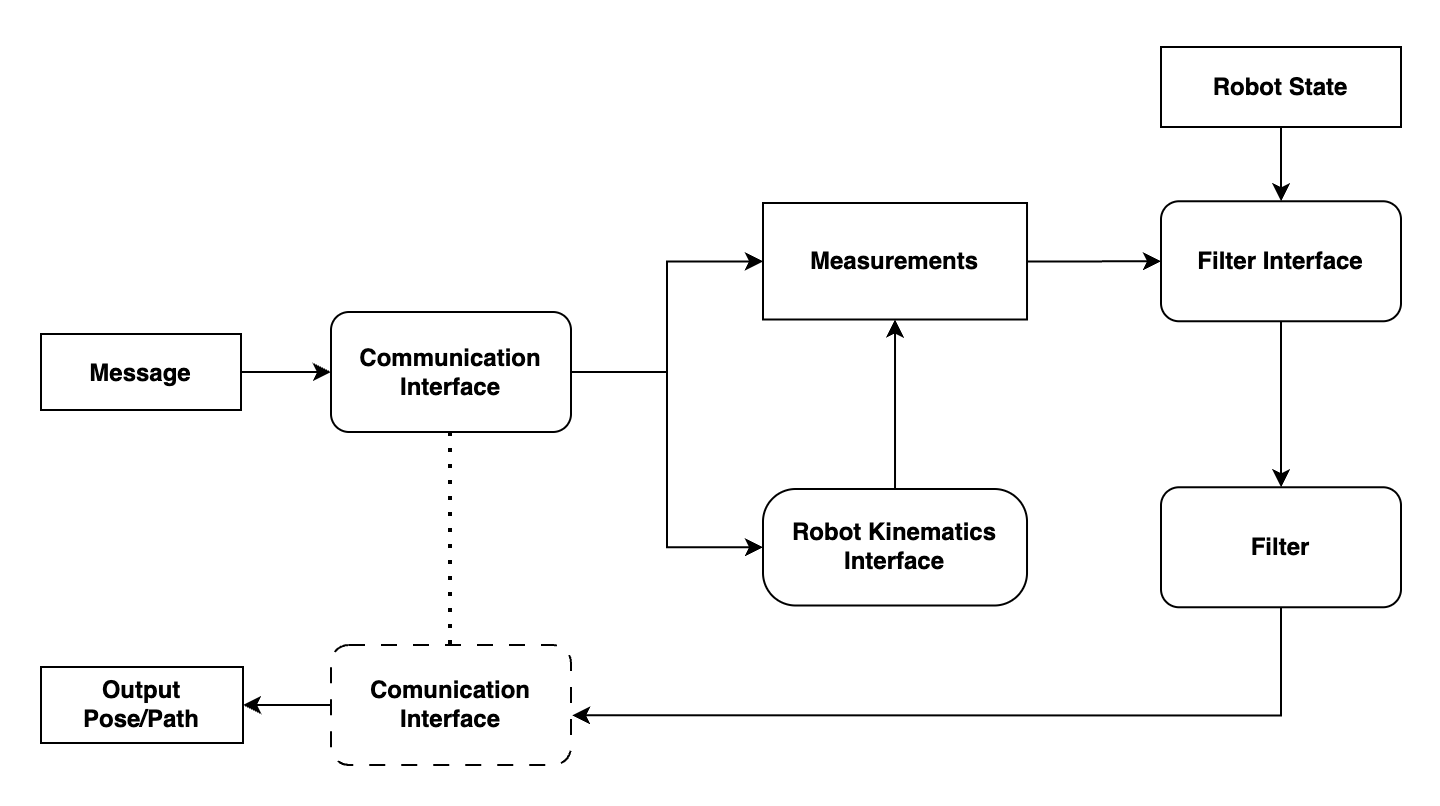
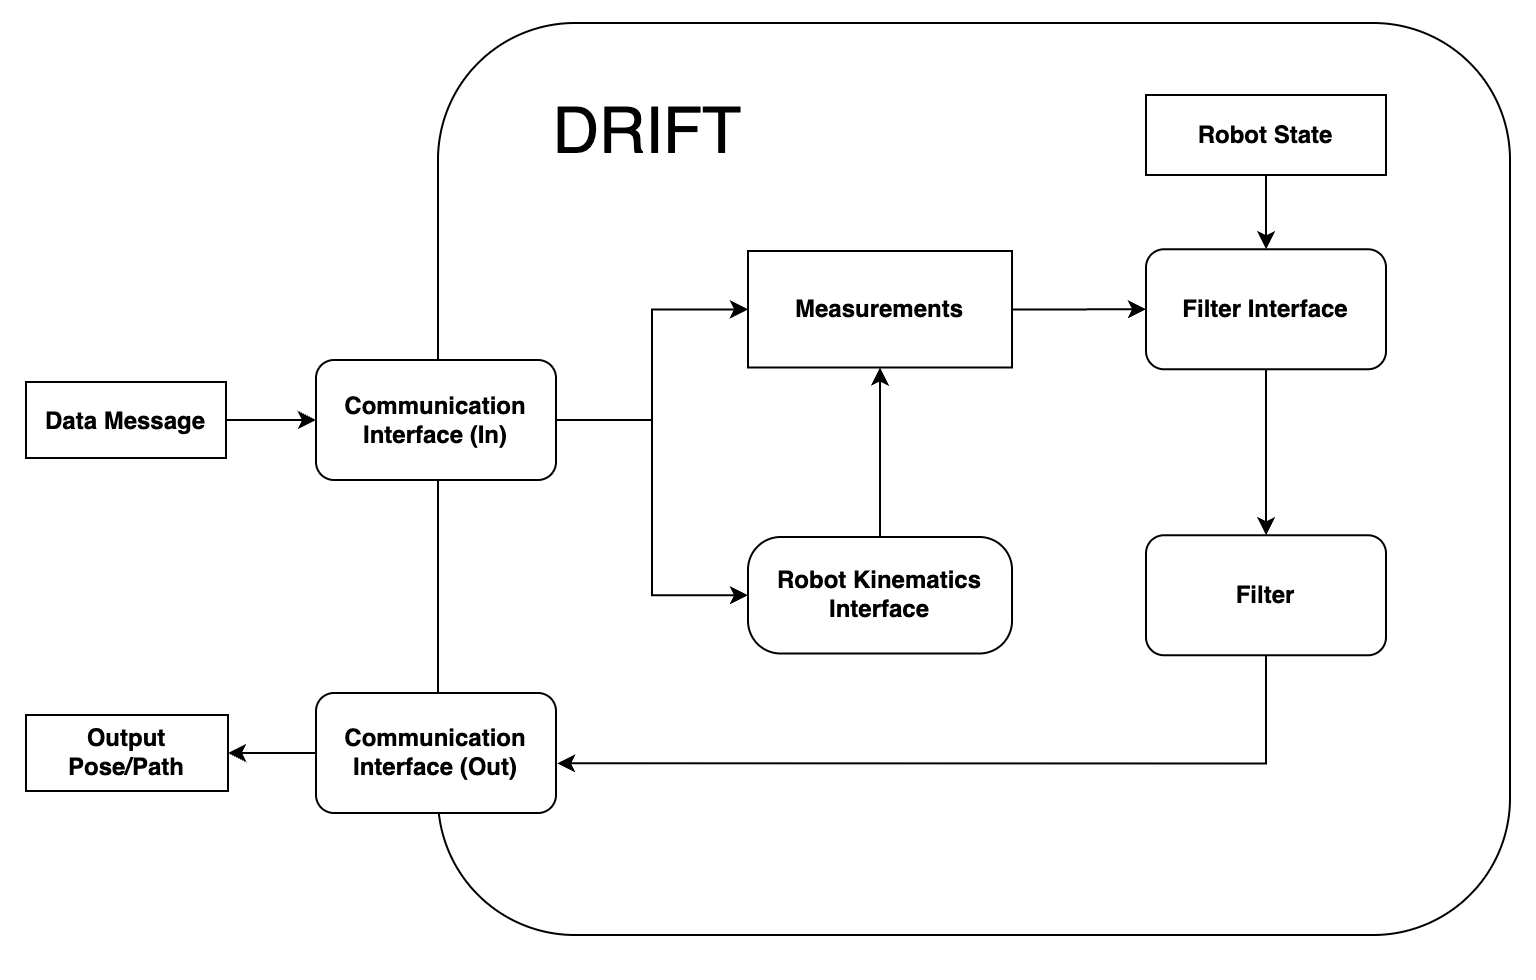
high level flow

diff --git a/_pages/home.md b/_pages/home.md
@@ -27,6 +27,7 @@ redirect_from: /sitemap/
             <p class="small">
 Dead Reckoning for Robotics In Field Time (DRIFT) is an open-source C++ software library designed to provide accurate and reliable state estimation for a variety of grounded mobile robot architectures, including legged and wheeled platforms. Leveraging invariant extended Kalman filtering (inEKF), this modular library empowers roboticists and engineers with a robust and adaptable tool to estimate instantenous local pose and velocity in diverse environments. DRIFT aims to make real-time robot localization easy and accessible, promoting seamless integration across numerous platforms. DRIFT is available with Lightweight Communications and Marshalling (LCM), ROS, and ROS 2 interfaces. Alternatively, library headers are available for linking to support a custom communcation wrapper.
             </p>
+            <img src="./images/hi-lvl-flow.png" alt="HighLevelFlow">
         </div>
     </div>
 </div>
